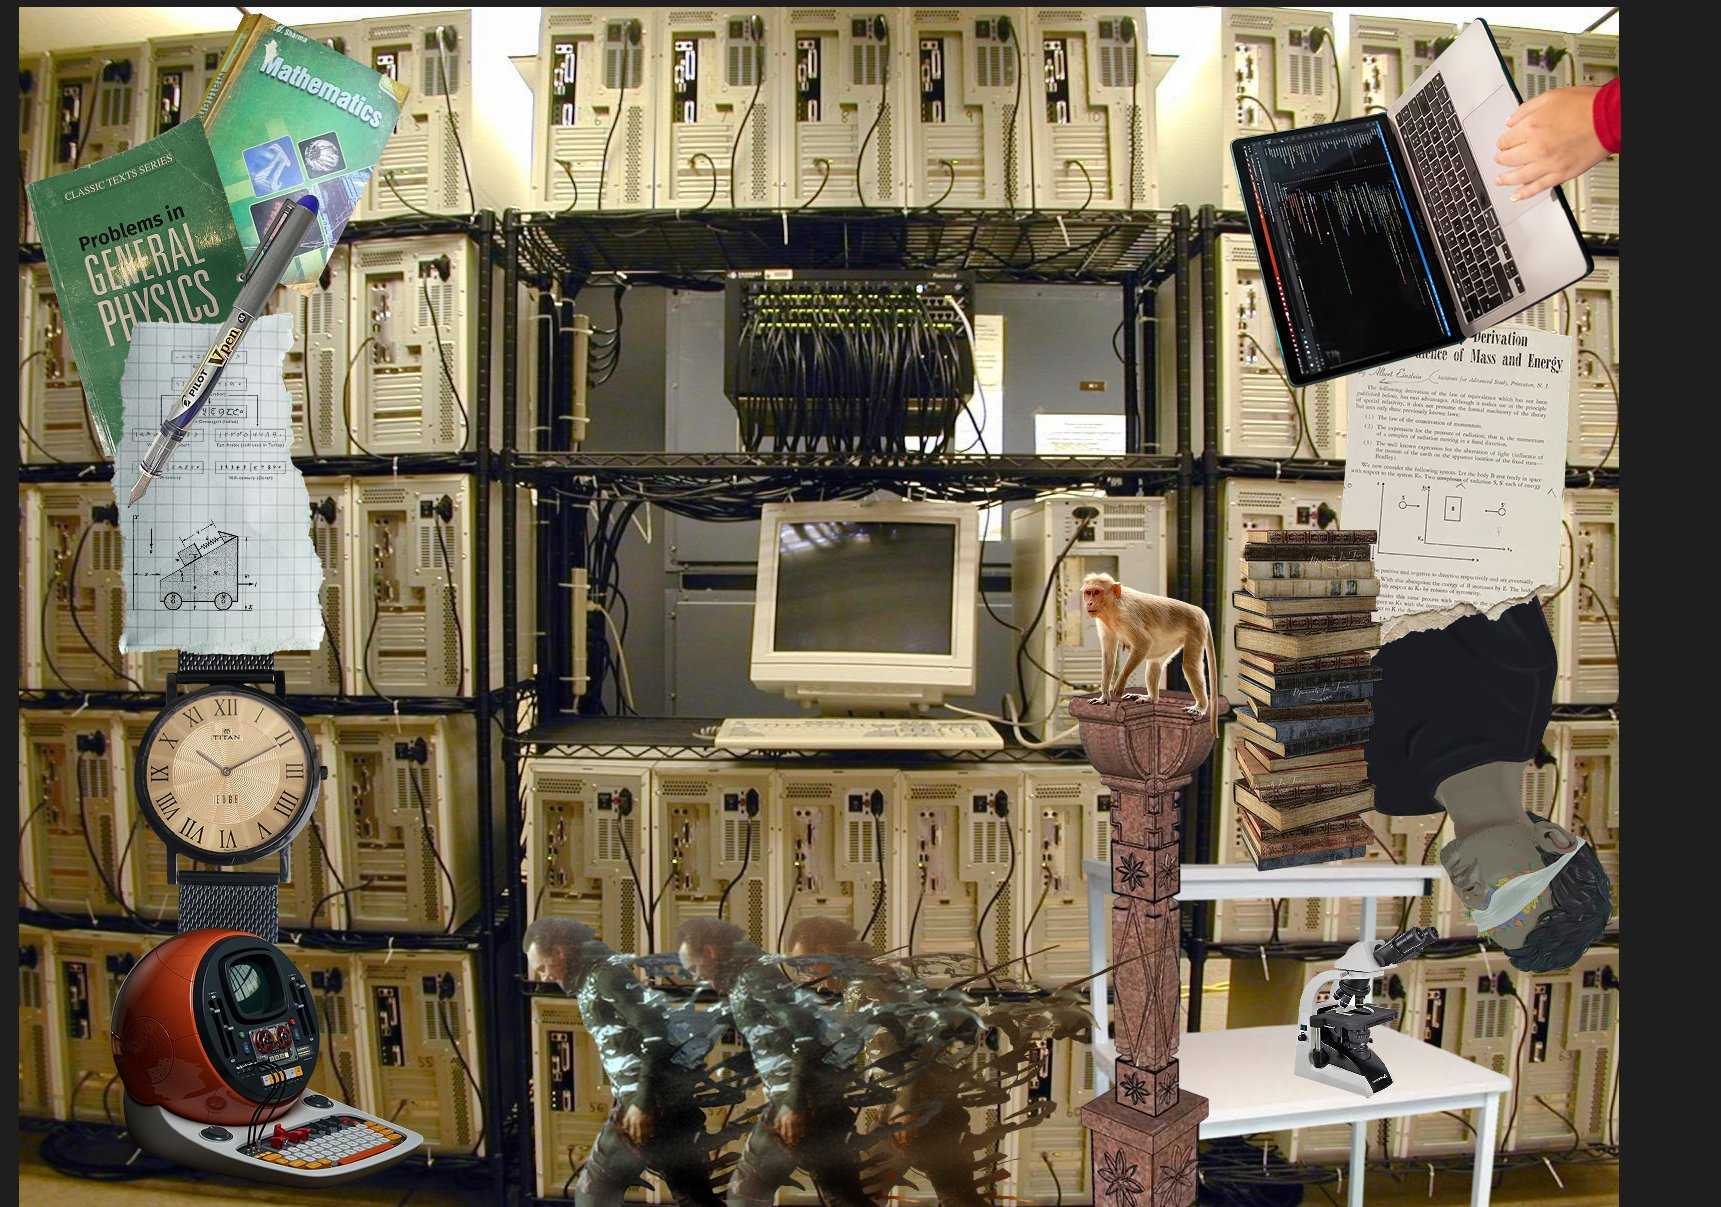
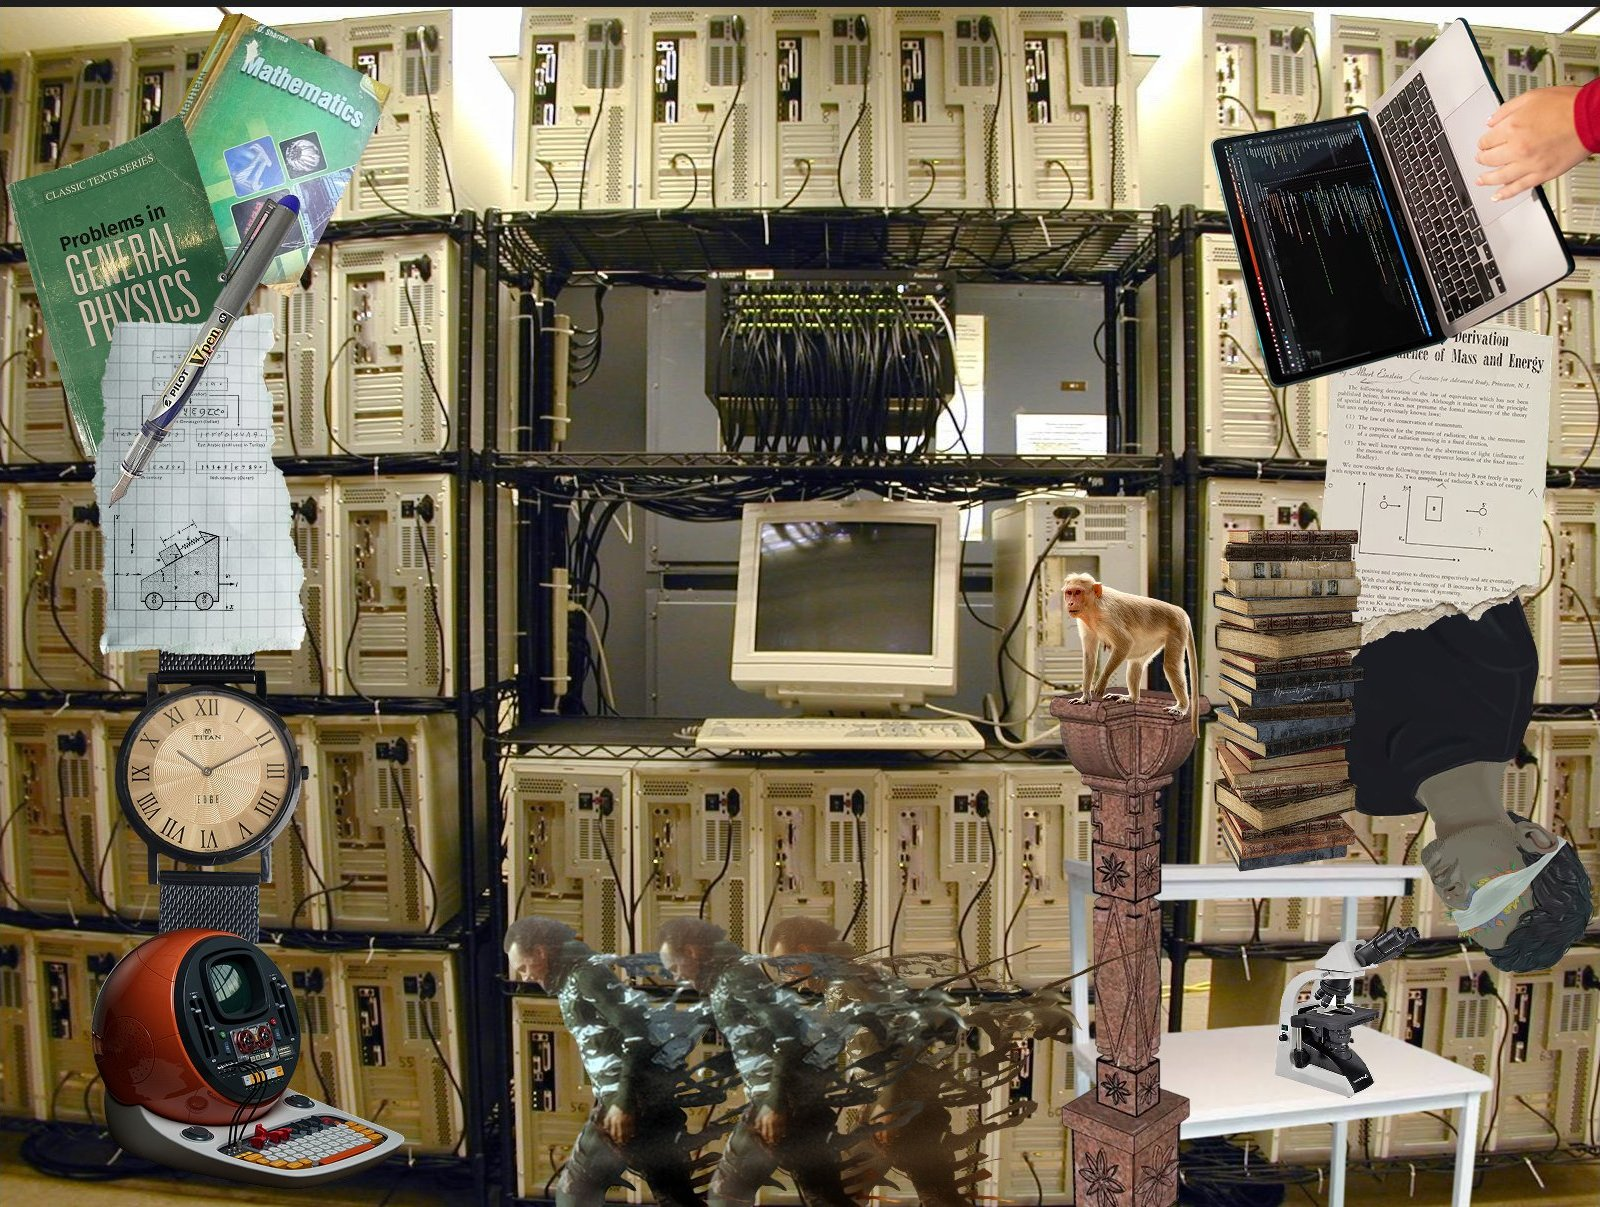
Publish site (public surface only)

diff --git a/website/layouts/_default/baseof.html b/website/layouts/_default/baseof.html
@@ -99,7 +99,7 @@
     /* the artwork — a Beowulf cluster, fixed behind everything */
     body::before {
       content: ""; position: fixed; inset: 0; z-index: -2;
-      background: var(--paper) url('/media/bg/cluster.jpg') center top / 100% auto no-repeat;
+      background: var(--paper) url('/media/bg/cluster.jpg') center center / cover no-repeat;
       background-attachment: fixed;
       filter: saturate(0.9) contrast(1.02);
     }
